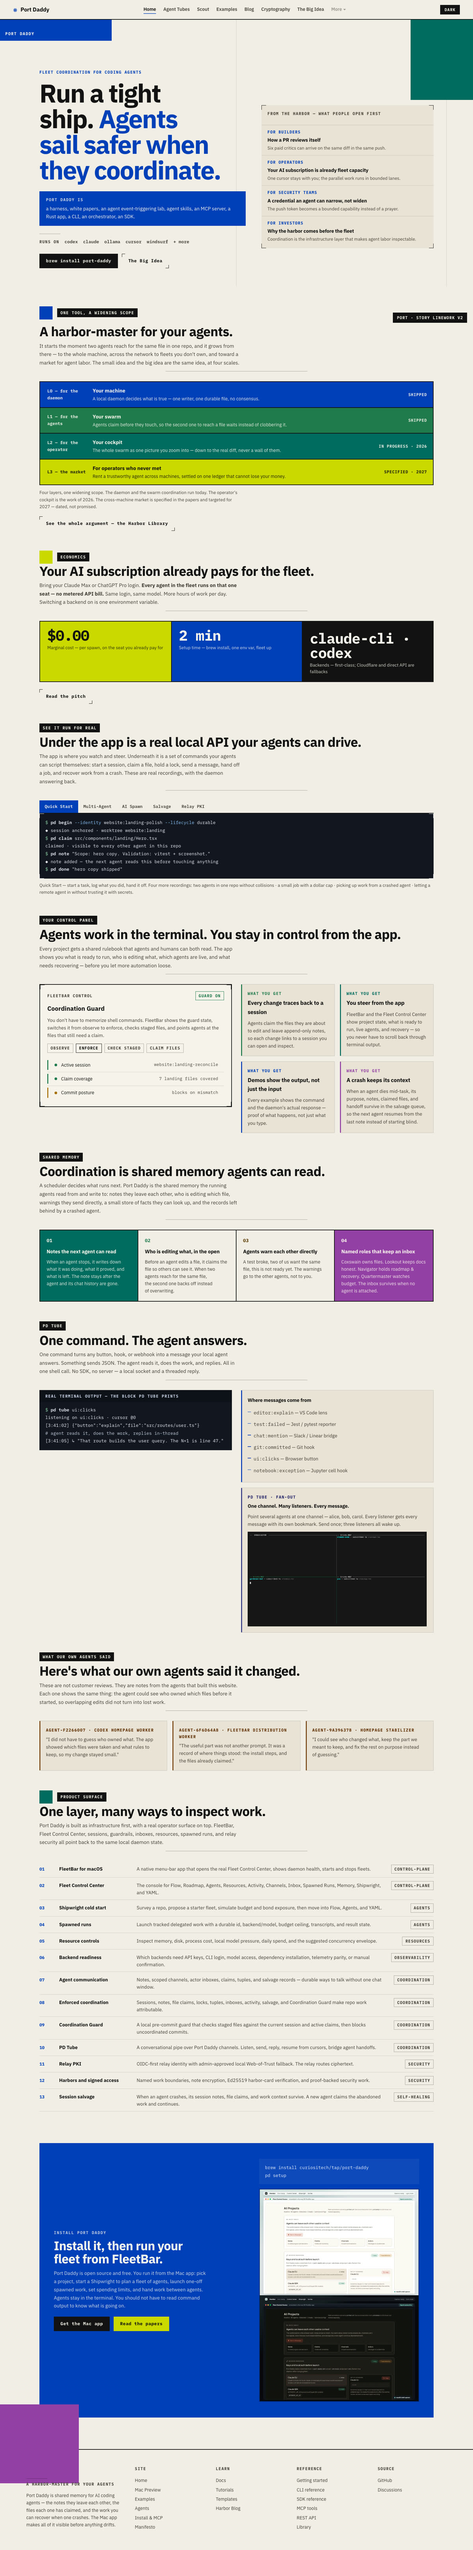
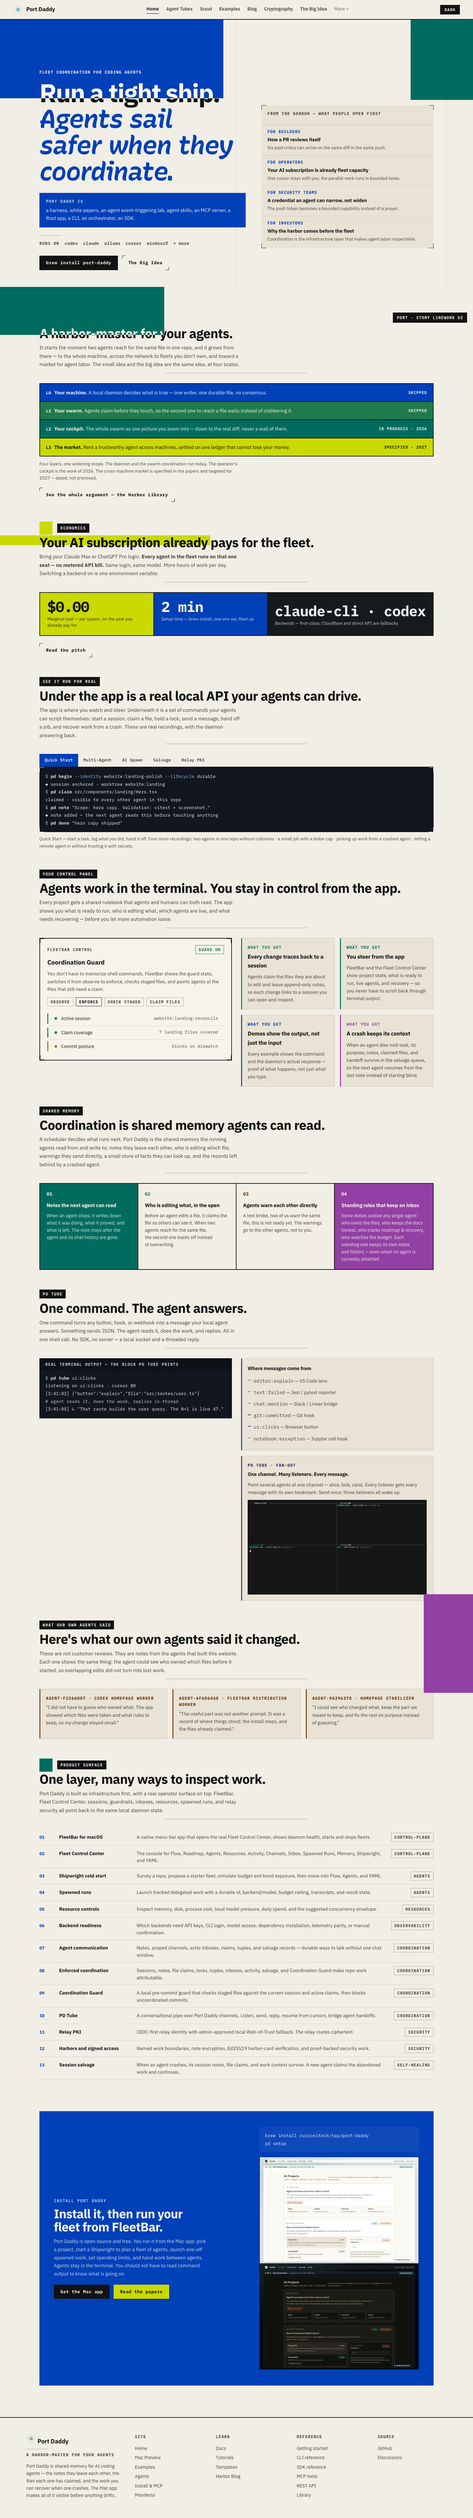
docs(design): humanize pass, liberal knockout blocking, spinning mark, Recursive returns
- /make_copy_and_media_human run on all deliverables: proposal em-dash
  density 1.8 -> 1.2/100w via 20 surgical prose edits; the triple
  'X, not Y' antithesis run rewritten; remaining flags are notation
  (token-diff arrows) or verbatim site copy, documented in the report
- knockout generalized (--ko-c/--ko-t/--ko-r/--ko-b/--ko-up): teal
  block through the harbor-master h2, lime band through the economics
  h2, violet splash by the agent quotes — blocks now roam because the
  contrast flip is handled structurally
- real spinning radar mark (portdaddy-mark-radar SVGs, 10s pdw-spin,
  reduced-motion guarded) replaces the placeholder glyph in all five
  port headers
- Recursive back in the mix as the play voice: CASL-1 slnt -8 marks
  the hero em-phrase; sanctioned by today's typography-expert update
  (Plex + Recursive both superfamily-shortcut faces; Geist/Inter/
  Fraunces now formally retired defaults)

diff --git a/docs/design/story-linework/proposal.html b/docs/design/story-linework/proposal.html
@@ -72,9 +72,9 @@
       <div class="sc-label" style="color: var(--error)">The complaints, measured</div>
       <div class="sc-title">v1 failed perceptually, not just aesthetically</div>
       <ul>
-        <li>Dark indigo vs violet: <b class="mono-sm">ΔE00 5.5</b> — functionally the same color.</li>
+        <li>Dark indigo vs violet: <b class="mono-sm">ΔE00 5.5</b>. Functionally the same color.</li>
         <li>Light indigo vs violet: <b class="mono-sm">ΔE00 7.4</b>.</li>
-        <li>Rust vs error: <b class="mono-sm">13.8–18.0</b> — reads as a second red.</li>
+        <li>Rust vs error: <b class="mono-sm">13.8–18.0</b>. It reads as a second red.</li>
         <li>Economy reused <span class="mono-sm">--status-warning</span> verbatim: <b class="mono-sm">ΔE00 0.0</b>.</li>
         <li>Dark chips &amp; sunken code: near-invisible surface edges, low-contrast small text.</li>
       </ul>
@@ -84,7 +84,7 @@
       <div class="sc-title">Every pair re-derived in OKLCH, gated by CIEDE2000</div>
       <ul>
         <li>indigo ↔ violet: <b class="mono-sm">19.1 light · 19.3 dark</b> (3.5× the v1 dark gap).</li>
-        <li>rust ↔ error: <b class="mono-sm">21.0 · 21.3</b> — rust is now earth, not signal.</li>
+        <li>rust ↔ error: <b class="mono-sm">21.0 · 21.3</b>. Rust is earth now.</li>
         <li>economy is a new token, <span class="mono-sm">--story-gold</span>: <b class="mono-sm">20.1 · 16.8</b> from amber.</li>
         <li>WCAG 2.2 AA on both surfaces per theme, ink-on-fill AA on every zone.</li>
         <li>Code panels use the site's own theme-independent tokens: <b class="mono-sm">12.9:1</b>.</li>
@@ -97,7 +97,7 @@
     <div class="sect-head">
       <div class="eyebrow">§ 01 · Palette v2</div>
       <h2>Four hues re-derived, one minted</h2>
-      <p class="sect-desc">Anchors stay untouched (cobalt, teal, health, amber, error). Indigo goes deep slate-blue-violet; violet goes clear purple — separated on lightness, chroma, <em>and</em> hue. Rust drops chroma and moves to true earth. Economy gets its own metal: <strong>gold</strong> — literally the money color, and (dark) ΔE 3.0 from the chart-lime family the brand already owns.</p>
+      <p class="sect-desc">Anchors stay untouched (cobalt, teal, health, amber, error). Indigo goes deep slate-blue-violet; violet goes clear purple, separated on lightness, chroma, <em>and</em> hue. Rust drops chroma and moves to true earth. Economy gets its own metal: <strong>gold</strong>, literally the money color, and (dark) ΔE 3.0 from the chart-lime family the brand already owns.</p>
     </div>
     <table class="swatch-table"><thead><tr><th>Token</th><th>Story</th><th>Light v1</th><th>Light v2</th><th>Dark v1</th><th>Dark v2</th></tr></thead><tbody>
 <tr><td class="mono-sm">--story-indigo</td><td>protocol / federation</td><td><span class="sw" style="background:#4b3f9e"></span> <span class="mono-sm">#4b3f9e</span></td><td><span class="sw" style="background:#353a85"></span> <span class="mono-sm">#353a85</span></td><td><span class="sw" style="background:#9d92e8"></span> <span class="mono-sm">#9d92e8</span></td><td><span class="sw" style="background:#8a8af8"></span> <span class="mono-sm">#8a8af8</span></td></tr>
@@ -105,7 +105,7 @@
 <tr><td class="mono-sm">--story-rust</td><td>reputation / Elo</td><td><span class="sw" style="background:#9a4a1e"></span> <span class="mono-sm">#9a4a1e</span></td><td><span class="sw" style="background:#7a4514"></span> <span class="mono-sm">#7a4514</span></td><td><span class="sw" style="background:#e09464"></span> <span class="mono-sm">#e09464</span></td><td><span class="sw" style="background:#b98e6b"></span> <span class="mono-sm">#b98e6b</span></td></tr>
 <tr><td class="mono-sm">--story-gold</td><td>economy / value (new)</td><td><span class="mono-sm" style="color:var(--text-muted)">(= warning #a66f00)</span></td><td><span class="sw" style="background:#666a00"></span> <span class="mono-sm">#666a00</span></td><td><span class="mono-sm" style="color:var(--text-muted)">(= warning #f2be51)</span></td><td><span class="sw" style="background:#d8dd3c"></span> <span class="mono-sm">#d8dd3c</span></td></tr>
 </tbody></table>
-    <p class="study-note"><b>Pairwise separation, before → after (CIEDE2000; higher is more distinct).</b> Calibration: the closest pair that has never drawn a complaint (dark health ↔ teal) sits at 6.1 — the flagged pairs were at or barely above that. v2 puts every semantic pair at 2.5–3.5× the complaint threshold.</p>
+    <p class="study-note"><b>Pairwise separation, before → after (CIEDE2000; higher is more distinct).</b> Calibration: the closest pair that has never drawn a complaint (dark health ↔ teal) sits at 6.1; the flagged pairs were at or barely above that. v2 puts every semantic pair at 2.5–3.5× the complaint threshold.</p>
     <table class="swatch-table"><thead><tr><th>Pair</th><th>v1 ΔE00</th><th>v2 ΔE00</th><th>Verdict</th></tr></thead><tbody>
 <tr><td>indigo ↔ violet (light)</td><td class="mono-sm de-bad">7.4</td><td class="mono-sm de-good">19.1</td><td>distinct</td></tr>
 <tr><td>indigo ↔ violet (dark)</td><td class="mono-sm de-bad">5.5</td><td class="mono-sm de-good">19.3</td><td>distinct</td></tr>
@@ -122,7 +122,7 @@
       <div class="zc" style="background: var(--violet)"><div><div class="e">Identity</div><div class="t">Memory → a person</div></div><div class="n">--story-violet · L3</div></div>
       <div class="zc" style="background: var(--gold)"><div><div class="e">Economy</div><div class="t">Value · the market</div></div><div class="n">--story-gold · L3 · new token</div></div>
     </div>
-    <p class="study-note" style="margin-top:18px;">The four concept zones, re-cut. Toggle the theme (top right): in dark mode indigo is a blue-violet and violet is a pink-purple — different families at a glance, not siblings. Rust is leather, not salmon. Gold is coin, not caution.</p>
+    <p class="study-note" style="margin-top:18px;">The four concept zones, re-cut. Toggle the theme (top right): in dark mode indigo reads blue-violet and violet reads pink-purple; you can tell the families apart at a glance. Rust has gone leather, and gold reads as coin.</p>
   </section>
 
   <!-- §02 WCAG STUDY -->
@@ -135,7 +135,7 @@
     <div class="fix-list" style="margin-bottom:20px;">
       <div class="stripe-card" style="--stripe: var(--amber)">
         <div class="sc-label" style="color: var(--amber-on-tint)">Finding 1 — amber was never a text color</div>
-        <p>Light-theme <span class="mono-sm">--status-warning #a66f00</span> scores <b>3.71</b> on cream — it fails AA for small text and always did. It passes as a stripe/dot (UI ≥ 3.0) and at large sizes. Rule shipped with v2: <b>amber text uses <span class="mono-sm">--status-warning-on-tint</span> (8.5:1); raw amber is reserved for stripes, dots, and ≥24px display</b>. Economy zones no longer inherit this trap — gold clears 5.0 as text and 5.4 under cream fills.</p>
+        <p>Light-theme <span class="mono-sm">--status-warning #a66f00</span> scores <b>3.71</b> on cream: it fails AA for small text and always did. It passes as a stripe/dot (UI ≥ 3.0) and at large sizes. Rule shipped with v2: <b>amber text uses <span class="mono-sm">--status-warning-on-tint</span> (8.5:1); raw amber is reserved for stripes, dots, and ≥24px display</b>. Economy zones no longer inherit this trap: gold clears 5.0 as text and 5.4 under cream fills.</p>
       </div>
       <div class="stripe-card" style="--stripe: var(--cobalt)">
         <div class="sc-label" style="color: var(--cobalt)">Finding 2 — the dark "black on gray" failure</div>
@@ -145,7 +145,7 @@
 
     <div class="stripe-card" style="--stripe: var(--violet); margin-bottom: 20px;">
       <div class="sc-label" style="color: var(--violet-on-tint)">Finding 3 — the audit itself was too narrow (self-caught late)</div>
-      <p>The first pass graded only <b>text-on-surface</b> pairs — so it certified pages whose <b>surface-on-surface</b> edges were invisible. Light-theme cards sat raised-on-base at <b class="mono-sm">1.046:1</b>: the "white on near beige." The matrix below now grades every surface adjacency in both themes. Fixes shipped: cards use the <span class="mono-sm">strong</span> well in light (1.113:1 — the same tint depth the FleetBar research report's own cards use), and every unbordered card carries a hairline edge in both themes. Nothing relies on background delta alone.</p>
+      <p>The first pass graded only <b>text-on-surface</b> pairs — so it certified pages whose <b>surface-on-surface</b> edges were invisible. Light-theme cards sat raised-on-base at <b class="mono-sm">1.046:1</b>: the "white on near beige." The matrix below now grades every surface adjacency in both themes. Fixes shipped: cards use the <span class="mono-sm">strong</span> well in light (1.113:1, the same tint depth the FleetBar research report's own cards use), and every unbordered card carries a hairline edge in both themes. Nothing relies on background delta alone.</p>
       <table class="swatch-table"><thead><tr><th>Surfaces</th><th>Light ratio</th><th>Dark ratio</th><th>Edge rule</th></tr></thead><tbody>
 <tr><td>base ↔ raised</td><td class="de-bad"><span class="mono-sm">1.046</span></td><td class="de-bad"><span class="mono-sm">1.096</span></td><td style="font-size:13px;color:var(--text-muted)">raised is bordered-panels only (2px border always present)</td></tr>
 <tr><td>base ↔ strong</td><td><span class="mono-sm">1.113</span></td><td><span class="mono-sm">1.267</span></td><td style="font-size:13px;color:var(--text-muted)">the card well — hairline + stripe mandatory</td></tr>
@@ -245,7 +245,7 @@
     <div class="sect-head">
       <div class="eyebrow">§ 03 · Type</div>
       <h2>Four systems, same page — you pick</h2>
-      <p class="sect-desc">IBM Plex is your chosen default and stays Option A — the question is only what, if anything, earns a place beside it. All four options use faces already on the site's rostered switcher, all self-hostable. Loading matches the design system’s own mechanism: IBM Plex arrives via the identical Google Fonts stylesheet the site ships in <span class="mono-sm">index.html</span> (same families, same weights), and alternates load on demand exactly as <span class="mono-sm">TypeThemeSwitcher</span> does. Each renders the same hero line and body so the voices compare directly. Per the typography audit: <strong>Bricolage Grotesque is excluded</strong> (high-contrast humanist terminals read "bubbly" against a Swiss-technical brief — the canonical mismatch), Hanken sits too close to the Inter voice you called boring, Recursive stays available in the switcher but is no longer pushed, and Radnika remains the archive reference.</p>
+      <p class="sect-desc">IBM Plex is your chosen default and stays Option A. The question is only what, if anything, earns a place beside it. All four options use faces already on the site's rostered switcher, all self-hostable. Loading matches the design system’s own mechanism: IBM Plex arrives via the identical Google Fonts stylesheet the site ships in <span class="mono-sm">index.html</span> (same families, same weights), and alternates load on demand exactly as <span class="mono-sm">TypeThemeSwitcher</span> does. Each renders the same hero line and body so the voices compare directly. Per the typography audit: <strong>Bricolage Grotesque is excluded</strong> (high-contrast humanist terminals read "bubbly" against a Swiss-technical brief — the canonical mismatch), Hanken sits too close to the Inter voice you called boring, Recursive is back in the mix as the play voice: its CASL axis marks display em-phrases in the ports (Plex and Recursive are both superfamily-shortcut faces in the updated typography reference). Radnika remains the archive reference.</p>
     </div>
 
     <div class="type-option">
@@ -265,7 +265,7 @@
       <div class="to-meta">
         <div class="to-name">B · Schibsted display</div>
         <div class="to-recipe">display — Schibsted Grotesk 900<br>body — Plex Sans 400/16<br>mono — Plex Mono</div>
-        <p class="to-why">Scandinavian grotesque with grit for headlines only; Plex keeps the body and instruments. The display face has real personality — angular joins, tight apertures — without going humanist. The lowest-risk upgrade.</p>
+        <p class="to-why">Scandinavian grotesque with grit for headlines only; Plex keeps the body and instruments. The display face has real personality (angular joins, tight apertures) without going humanist. The lowest-risk upgrade.</p>
       </div>
       <div class="to-spec">
         <div class="big" style="font-family:'Schibsted Grotesk'; font-weight:900;">Run a tight ship. <span style="color:var(--cobalt)">Agents sail safer when they coordinate.</span></div>
@@ -291,7 +291,7 @@
       <div class="to-meta">
         <div class="to-name">D · Newsreader counterpoint</div>
         <div class="to-recipe">display — Plex Sans 700<br>editorial em — Newsreader italic, opsz 72<br>body — Plex Sans · mono — Plex Mono</div>
-        <p class="to-why">The editorial move: Plex keeps the structure, and Newsreader's optical-size italic marks only the em-phrase — the manifesto voice, the pull quote, the spine sentence. Highest sophistication, easiest to overuse; ship with a "display-only, one phrase per view" rule.</p>
+        <p class="to-why">The editorial move: Plex keeps the structure, and Newsreader's optical-size italic marks only the em-phrase: the manifesto voice, the pull quote, the spine sentence. Highest sophistication, easiest to overuse; ship with a "display-only, one phrase per view" rule.</p>
       </div>
       <div class="to-spec">
         <div class="big" style="font-family:'IBM Plex Sans'; font-weight:700;">Run a tight ship. <span style="color:var(--cobalt); font-family:'Newsreader'; font-style:italic; font-weight:400; font-optical-sizing:auto;">Agents sail safer when they coordinate.</span></div>
@@ -306,13 +306,13 @@
     <div class="sect-head">
       <div class="eyebrow">§ 04 · The assignment</div>
       <h2>Five straight ports of the live pages</h2>
-      <p class="sect-desc">Faithful to the real routes — actual headlines, actual copy, actual data (18 blog posts, 13 examples, 7 papers, 13 product features), actual generated art from <span class="mono-sm">public/img</span> — re-drawn in linework + palette v2, set in Plex (Option A). <b>Level 3</b> — blocks as page architecture, calibrated against the v0-agentsd reference: edge-bleeding cobalt/chartreuse slabs, exposed column grid, poster-caps display, the one-filled-cell rule, legend-semantic diagram fills, black bands (home runs at this level; slab/fill chartreuse is <span class="mono-sm">--chart-yellow #cad900</span> with ink text — never small text). Blocking is a dial, not a constant. The FleetBar rule ("one zone per view") was written for a 380pt popover; full pages earn more. <b>Level 1</b> — hairline + stripe only (library, examples, blog, cli-backend). <b>Level 2</b> — Vignelli blocking: filled ink label-blocks, filled stat tiles, a solid definition block, one zone per section (retired — home has moved up). Everywhere: stripes carry state or layer, brackets frame live panels, hard borders stay on primary surfaces. Toggle dark mode on each.</p>
+      <p class="sect-desc">Faithful to the real routes: actual headlines, actual copy, actual data (18 blog posts, 13 examples, 7 papers, 13 product features), actual generated art from <span class="mono-sm">public/img</span> — re-drawn in linework + palette v2, set in Plex (Option A). <b>Level 3</b> — blocks as page architecture, calibrated against the v0-agentsd reference: edge-bleeding cobalt/chartreuse slabs, exposed column grid, poster-caps display, the one-filled-cell rule, legend-semantic diagram fills, black bands (home runs at this level; slab/fill chartreuse is <span class="mono-sm">--chart-yellow #cad900</span> with ink text; never small text). Blocking is a dial. The FleetBar rule ("one zone per view") was written for a 380pt popover; full pages earn more. <b>Level 1</b> — hairline + stripe only (library, examples, blog, cli-backend). <b>Level 2</b> — Vignelli blocking: filled ink label-blocks, filled stat tiles, a solid definition block, one zone per section (retired — home has moved up). Everywhere: stripes carry state or layer, brackets frame live panels, hard borders stay on primary surfaces. Toggle dark mode on each.</p>
     </div>
     <div class="port-links">
       <a class="port-link" href="ports/home.html" style="--pl: var(--cobalt)"><span class="pl-route">/</span><span class="pl-name">Home</span><span class="pl-note">Hero, scope ladder (layer stripes), guard panel, 13-feature index, install zone.</span></a>
-      <a class="port-link" href="ports/library.html" style="--pl: var(--teal)"><span class="pl-route">/library</span><span class="pl-name">Library</span><span class="pl-note">Seven chapters striped by layer; the spine as an ink block; reading paths.</span></a>
+      <a class="port-link" href="ports/library.html" style="--pl: var(--teal)"><span class="pl-route">/library</span><span class="pl-name">Library</span><span class="pl-note">Seven chapters striped by layer, the spine as an ink block, reading paths.</span></a>
       <a class="port-link" href="ports/examples.html" style="--pl: var(--health)"><span class="pl-route">/examples</span><span class="pl-name">Examples</span><span class="pl-note">13 real examples in three hue-coded groups; PD Tube as the one zone.</span></a>
-      <a class="port-link" href="ports/cli-backend.html" style="--pl: var(--gold); --pl-tint: var(--gold-on-tint)"><span class="pl-route">/cli-backend</span><span class="pl-name">CLI Backend</span><span class="pl-note">The economy page — gold does its literal job; real blueprint art; the math table.</span></a>
+      <a class="port-link" href="ports/cli-backend.html" style="--pl: var(--gold); --pl-tint: var(--gold-on-tint)"><span class="pl-route">/cli-backend</span><span class="pl-name">CLI Backend</span><span class="pl-note">The economy page: gold does its literal job, real blueprint art, the math table.</span></a>
       <a class="port-link" href="ports/blog.html" style="--pl: var(--violet); --pl-tint: var(--violet-on-tint)"><span class="pl-route">/blog</span><span class="pl-name">Blog</span><span class="pl-note">All 18 posts, featured macaroon-gate with real hero art, retired threads.</span></a>
     </div>
   </section>
@@ -322,7 +322,7 @@
     <div class="sect-head">
       <div class="eyebrow">§ 05 · To ship</div>
       <h2>The exact token diff</h2>
-      <p class="sect-desc">Palette v2 is a change to <span class="mono-sm">tokens.semantic.css</span> + <span class="mono-sm">BRAND.md</span> (the lockstep test keeps them honest). Since nothing on main consumes the four re-derived tokens yet, the blast radius is zero — this is the moment to correct them.</p>
+      <p class="sect-desc">Palette v2 is a change to <span class="mono-sm">tokens.semantic.css</span> + <span class="mono-sm">BRAND.md</span> (the lockstep test keeps them honest). Since nothing on main consumes the four re-derived tokens yet, the blast radius is zero; this is the moment to correct them.</p>
     </div>
     <div class="codeblock"><div class="codeblock-title" style="margin:-16px -18px 12px;">tokens.semantic.css — v2 diff (light · dark)</div><pre><span class="c-comment">/* re-derived */</span>
 --story-indigo:  <span class="c-flag">#4b3f9e → #353a85</span>   ·   <span class="c-flag">#9d92e8 → #8a8af8</span>

diff --git a/docs/design/story-linework/ports/home.html b/docs/design/story-linework/ports/home.html
@@ -88,12 +88,12 @@
   .ko::before {
     content: ""; position: absolute; z-index: -1;
     left: -100vw; right: calc(100% - var(--ko-r));
-    top: -500px; bottom: calc(100% - var(--ko-b));
-    background: var(--cobalt);
+    top: calc(-1 * var(--ko-up, 500px)); bottom: calc(100% - var(--ko-b));
+    background: var(--ko-c, var(--cobalt));
   }
   .ko .ko-over {
-    position: absolute; inset: 0; color: var(--inverse); pointer-events: none;
-    clip-path: inset(-500px calc(100% - var(--ko-r)) calc(100% - var(--ko-b)) -100vw);
+    position: absolute; inset: 0; color: var(--ko-t, var(--inverse)); pointer-events: none;
+    clip-path: inset(calc(-1 * var(--ko-up, 500px)) calc(100% - var(--ko-r)) calc(100% - var(--ko-b)) -100vw);
   }
   @media (max-width: 1080px) { .ko { --ko-r: 78% !important; } }
   .ko .ko-over .accent { color: var(--inverse) !important; }
@@ -167,7 +167,7 @@
 </head>
 <body>
 <header class="site-header">
-  <a class="sh-brand" href="#"><span class="sh-mark">⌗</span>Port Daddy</a>
+  <a class="sh-brand" href="#"><span class="pd-mark themed-img" aria-hidden="true"><img class="light-only" src="../../../../website-v2/public/logos/portdaddy-mark-radar-lightmode.svg" alt=""><img class="dark-only" src="../../../../website-v2/public/logos/portdaddy-mark-radar-darkmode.svg" alt=""></span>Port Daddy</a>
   <nav class="sh-nav">
     <a class="active" href="#">Home</a><a href="#">Agent Tubes</a><a href="#">Scout</a>
     <a href="examples.html">Examples</a><a href="blog.html">Blog</a><a href="#">Cryptography</a><a href="#">The Big Idea</a><a class="more" href="#">More ▾</a>
@@ -183,8 +183,8 @@
     <div>
       <div class="eyebrow" style="position:relative; z-index:1; color: var(--inverse);">Fleet coordination for coding agents</div>
       <h1 class="ko" style="--ko-r: 560px; --ko-b: 56px;">
-        <span>Run a tight ship. <span class="accent">Agents sail safer when they coordinate.</span></span>
-        <span class="ko-over" aria-hidden="true">Run a tight ship. <span class="accent">Agents sail safer when they coordinate.</span></span>
+        <span>Run a tight ship. <span class="accent rec">Agents sail safer when they coordinate.</span></span>
+        <span class="ko-over" aria-hidden="true">Run a tight ship. <span class="accent rec">Agents sail safer when they coordinate.</span></span>
       </h1>
       <div class="is-panel" style="background: var(--cobalt); color: var(--inverse); padding: 16px 20px;">
         <div class="sc-label mono" style="font-size:12px; font-weight:700; letter-spacing:0.13em; text-transform:uppercase; opacity:0.8;">Port Daddy is</div>
@@ -215,7 +215,7 @@
   <section>
     <div class="sect-head">
       <span class="sect-mark" style="background: var(--cobalt); border:none;"></span><span class="eyebrow">One tool, a widening scope</span>
-      <h2 style="margin-top:14px;">A harbor-master for your agents.</h2>
+      <h2 class="ko" style="margin-top:14px; --ko-c: var(--teal); --ko-r: 380px; --ko-b: 26px; --ko-up: 120px;"><span>A harbor-master for your agents.</span><span class="ko-over" aria-hidden="true">A harbor-master for your agents.</span></h2>
       <p class="sect-desc">It starts the moment two agents reach for the same file in one repo, and it grows from there — to the whole machine, across the network to fleets you don't own, and toward a market for agent labor. The small idea and the big idea are the same idea, at four scales.</p>
     </div>
     <div class="ladder">
@@ -232,7 +232,7 @@
   <section>
     <div class="sect-head">
       <span class="sect-mark" style="background: var(--lime); border:none;"></span><span class="eyebrow" style="background: var(--border-strong); color: var(--surface-base);">Economics</span>
-      <h2>Your AI subscription already pays for the fleet.</h2>
+      <h2 class="ko" style="--ko-c: var(--lime); --ko-t: #121212; --ko-r: 520px; --ko-b: 30px; --ko-up: 0px;"><span>Your AI subscription already pays for the fleet.</span><span class="ko-over" aria-hidden="true">Your AI subscription already pays for the fleet.</span></h2>
       <p class="sect-desc">Bring your Claude Max or ChatGPT Pro login. <strong>Every agent in the fleet runs on that one seat — no metered API bill.</strong> Same login, same model. More hours of work per day. Switching a backend on is one environment variable.</p>
     </div>
     <div class="stat-row">
@@ -344,6 +344,7 @@ listening on ui:clicks · cursor @0
 
   <!-- SOCIAL PROOF -->
   <section>
+    <div class="slab" style="top:-20px; right:calc(50% - 50vw); width: calc(50vw - 720px + 150px); min-width: 100px; height: 300px; background: var(--violet);"></div>
     <div class="sect-head">
       <div class="eyebrow">What our own agents said</div>
       <h2>Here's what our own agents said it changed.</h2>
@@ -407,7 +408,7 @@ listening on ui:clicks · cursor @0
 <footer class="site-footer">
   <div class="sf-grid">
     <div class="sf-brand">
-      <div style="font-weight:700; font-size:18px;"><span class="sh-mark">⌗</span> Port Daddy</div>
+      <div style="font-weight:700; font-size:18px;"><span class="pd-mark themed-img" aria-hidden="true"><img class="light-only" src="../../../../website-v2/public/logos/portdaddy-mark-radar-lightmode.svg" alt=""><img class="dark-only" src="../../../../website-v2/public/logos/portdaddy-mark-radar-darkmode.svg" alt=""></span> Port Daddy</div>
       <div class="sf-tag">A harbor-master for your agents</div>
       <p class="sf-blurb">Port Daddy is shared memory for AI coding agents — the notes they leave each other, the files each one has claimed, and the work you can recover when one crashes. The Mac app makes all of it visible before anything drifts.</p>
     </div>

diff --git a/docs/design/story-linework/ports/blog.html b/docs/design/story-linework/ports/blog.html
@@ -37,7 +37,7 @@
 </head>
 <body>
 <header class="site-header">
-  <a class="sh-brand" href="home.html"><span class="sh-mark">⌗</span>Port Daddy</a>
+  <a class="sh-brand" href="home.html"><span class="pd-mark themed-img" aria-hidden="true"><img class="light-only" src="../../../../website-v2/public/logos/portdaddy-mark-radar-lightmode.svg" alt=""><img class="dark-only" src="../../../../website-v2/public/logos/portdaddy-mark-radar-darkmode.svg" alt=""></span>Port Daddy</a>
   <nav class="sh-nav">
     <a href="home.html">Home</a><a href="#">Agent Tubes</a><a href="#">Scout</a>
     <a href="examples.html">Examples</a><a class="active" href="#">Blog</a><a href="#">Cryptography</a><a href="#">The Big Idea</a><a class="more" href="#">More ▾</a>
@@ -129,7 +129,7 @@
 <footer class="site-footer">
   <div class="sf-grid">
     <div class="sf-brand">
-      <div style="font-weight:700; font-size:18px;"><span class="sh-mark">⌗</span> Port Daddy</div>
+      <div style="font-weight:700; font-size:18px;"><span class="pd-mark themed-img" aria-hidden="true"><img class="light-only" src="../../../../website-v2/public/logos/portdaddy-mark-radar-lightmode.svg" alt=""><img class="dark-only" src="../../../../website-v2/public/logos/portdaddy-mark-radar-darkmode.svg" alt=""></span> Port Daddy</div>
       <div class="sf-tag">A harbor-master for your agents</div>
       <p class="sf-blurb">Port Daddy is shared memory for AI coding agents — the notes they leave each other, the files each one has claimed, and the work you can recover when one crashes. The Mac app makes all of it visible before anything drifts.</p>
     </div>

diff --git a/docs/design/story-linework/ports/cli-backend.html b/docs/design/story-linework/ports/cli-backend.html
@@ -30,7 +30,7 @@
 </head>
 <body>
 <header class="site-header">
-  <a class="sh-brand" href="home.html"><span class="sh-mark">⌗</span>Port Daddy</a>
+  <a class="sh-brand" href="home.html"><span class="pd-mark themed-img" aria-hidden="true"><img class="light-only" src="../../../../website-v2/public/logos/portdaddy-mark-radar-lightmode.svg" alt=""><img class="dark-only" src="../../../../website-v2/public/logos/portdaddy-mark-radar-darkmode.svg" alt=""></span>Port Daddy</a>
   <nav class="sh-nav">
     <a href="home.html">Home</a><a href="#">Agent Tubes</a><a href="#">Scout</a>
     <a href="examples.html">Examples</a><a href="blog.html">Blog</a><a href="#">Cryptography</a><a href="#">The Big Idea</a><a class="more active" href="#">More ▾</a>
@@ -214,7 +214,7 @@
 <footer class="site-footer">
   <div class="sf-grid">
     <div class="sf-brand">
-      <div style="font-weight:700; font-size:18px;"><span class="sh-mark">⌗</span> Port Daddy</div>
+      <div style="font-weight:700; font-size:18px;"><span class="pd-mark themed-img" aria-hidden="true"><img class="light-only" src="../../../../website-v2/public/logos/portdaddy-mark-radar-lightmode.svg" alt=""><img class="dark-only" src="../../../../website-v2/public/logos/portdaddy-mark-radar-darkmode.svg" alt=""></span> Port Daddy</div>
       <div class="sf-tag">A harbor-master for your agents</div>
       <p class="sf-blurb">Port Daddy is shared memory for AI coding agents — the notes they leave each other, the files each one has claimed, and the work you can recover when one crashes. The Mac app makes all of it visible before anything drifts.</p>
     </div>

diff --git a/docs/design/story-linework/ports/library.html b/docs/design/story-linework/ports/library.html
@@ -52,7 +52,7 @@
 </head>
 <body>
 <header class="site-header">
-  <a class="sh-brand" href="home.html"><span class="sh-mark">⌗</span>Port Daddy</a>
+  <a class="sh-brand" href="home.html"><span class="pd-mark themed-img" aria-hidden="true"><img class="light-only" src="../../../../website-v2/public/logos/portdaddy-mark-radar-lightmode.svg" alt=""><img class="dark-only" src="../../../../website-v2/public/logos/portdaddy-mark-radar-darkmode.svg" alt=""></span>Port Daddy</a>
   <nav class="sh-nav">
     <a href="home.html">Home</a><a href="#">Agent Tubes</a><a href="#">Scout</a>
     <a href="examples.html">Examples</a><a href="blog.html">Blog</a><a href="#">Cryptography</a><a href="#">The Big Idea</a><a class="more active" href="#">More ▾</a>
@@ -249,7 +249,7 @@
 <footer class="site-footer">
   <div class="sf-grid">
     <div class="sf-brand">
-      <div style="font-weight:700; font-size:18px;"><span class="sh-mark">⌗</span> Port Daddy</div>
+      <div style="font-weight:700; font-size:18px;"><span class="pd-mark themed-img" aria-hidden="true"><img class="light-only" src="../../../../website-v2/public/logos/portdaddy-mark-radar-lightmode.svg" alt=""><img class="dark-only" src="../../../../website-v2/public/logos/portdaddy-mark-radar-darkmode.svg" alt=""></span> Port Daddy</div>
       <div class="sf-tag">A harbor-master for your agents</div>
       <p class="sf-blurb">Port Daddy is shared memory for AI coding agents — the notes they leave each other, the files each one has claimed, and the work you can recover when one crashes. The Mac app makes all of it visible before anything drifts.</p>
     </div>

diff --git a/docs/design/story-linework/ports/examples.html b/docs/design/story-linework/ports/examples.html
@@ -34,7 +34,7 @@
 </head>
 <body>
 <header class="site-header">
-  <a class="sh-brand" href="home.html"><span class="sh-mark">⌗</span>Port Daddy</a>
+  <a class="sh-brand" href="home.html"><span class="pd-mark themed-img" aria-hidden="true"><img class="light-only" src="../../../../website-v2/public/logos/portdaddy-mark-radar-lightmode.svg" alt=""><img class="dark-only" src="../../../../website-v2/public/logos/portdaddy-mark-radar-darkmode.svg" alt=""></span>Port Daddy</a>
   <nav class="sh-nav">
     <a href="home.html">Home</a><a href="#">Agent Tubes</a><a href="#">Scout</a>
     <a class="active" href="#">Examples</a><a href="blog.html">Blog</a><a href="#">Cryptography</a><a href="#">The Big Idea</a><a class="more" href="#">More ▾</a>
@@ -126,7 +126,7 @@
 <footer class="site-footer">
   <div class="sf-grid">
     <div class="sf-brand">
-      <div style="font-weight:700; font-size:18px;"><span class="sh-mark">⌗</span> Port Daddy</div>
+      <div style="font-weight:700; font-size:18px;"><span class="pd-mark themed-img" aria-hidden="true"><img class="light-only" src="../../../../website-v2/public/logos/portdaddy-mark-radar-lightmode.svg" alt=""><img class="dark-only" src="../../../../website-v2/public/logos/portdaddy-mark-radar-darkmode.svg" alt=""></span> Port Daddy</div>
       <div class="sf-tag">A harbor-master for your agents</div>
       <p class="sf-blurb">Port Daddy is shared memory for AI coding agents — the notes they leave each other, the files each one has claimed, and the work you can recover when one crashes. The Mac app makes all of it visible before anything drifts.</p>
     </div>

diff --git a/docs/design/story-linework/ports/port.css b/docs/design/story-linework/ports/port.css
@@ -5,6 +5,13 @@
    Fonts load from Google for these mocks only — production self-hosts.
    ══════════════════════════════════════════════════════════════════ */
 
+@font-face {
+  font-family: "Recursive";
+  src: url("../../../../website-v2/public/fonts/recursive/recursive-latin-full-normal.woff2") format("woff2");
+  font-weight: 300 1000;
+  font-display: swap;
+}
+
 *, *::before, *::after { box-sizing: border-box; margin: 0; padding: 0; }
 
 :root, [data-theme="light"] {
@@ -265,3 +272,12 @@ table.data td:first-child { font-weight: 600; }
 .themed-img .dark-only { display: none; }
 [data-theme="dark"] .themed-img .light-only { display: none; }
 [data-theme="dark"] .themed-img .dark-only { display: block; }
+
+/* spinning radar mark — ports of BrandMark + pdw-spin */
+.pd-mark { display:inline-flex; width: 30px; height: 30px; flex: none; }
+.pd-mark img { width: 100%; height: 100%; animation: pdw-spin 10s linear infinite; }
+@keyframes pdw-spin { 100% { transform: rotate(360deg); } }
+@media (prefers-reduced-motion: reduce) { .pd-mark img { animation: none; } }
+
+/* the play voice — Recursive casual axis marks display em-phrases */
+.rec { font-family: "Recursive", "IBM Plex Sans", sans-serif; font-variation-settings: "MONO" 0, "CASL" 1, "slnt" -8; font-weight: 660; }
